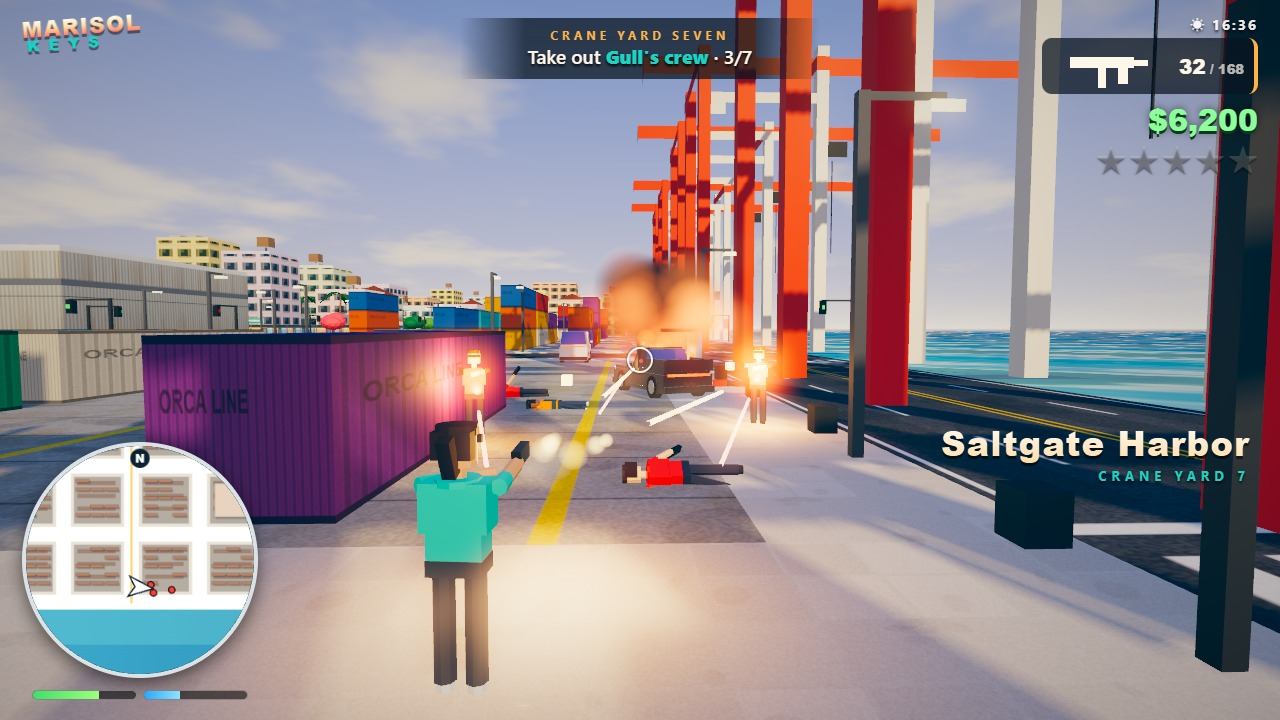
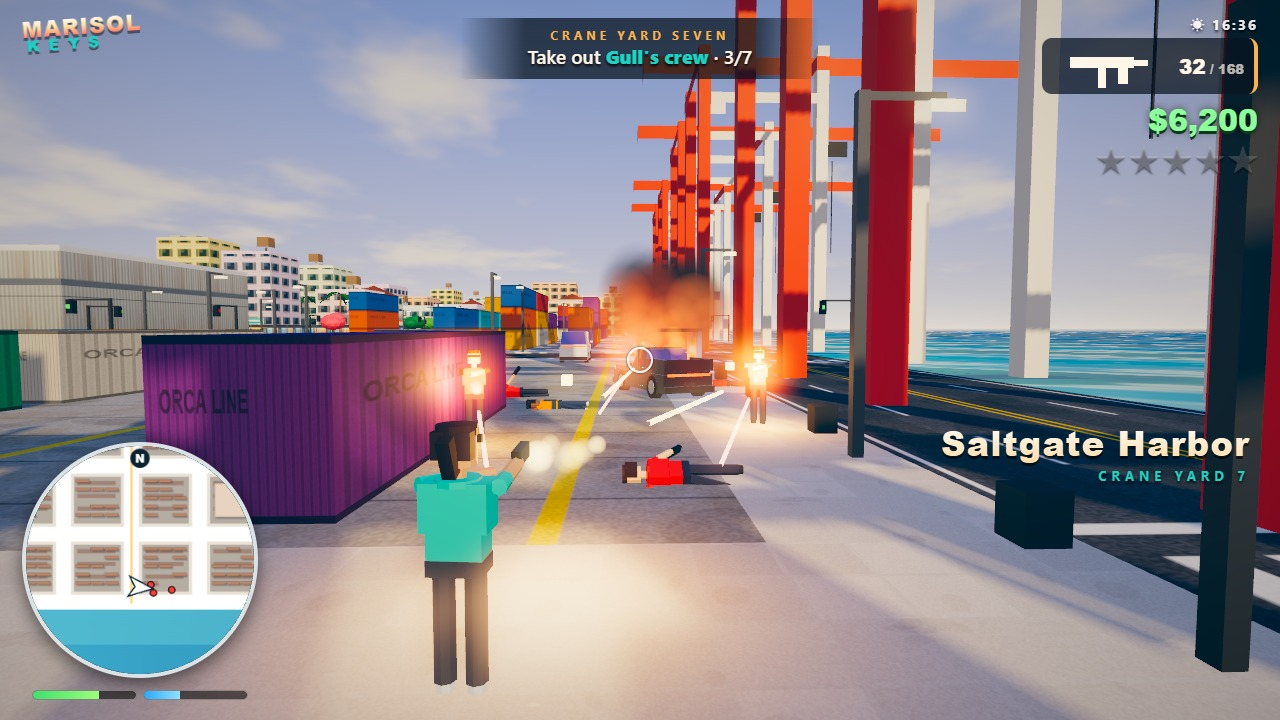
Faces: eyes, brows and mouths on every character

Changed region(s): [[0.4375, 0.3361, 0.5938, 0.55], [0.375, 0.5806, 0.4688, 0.6722]]

diff --git a/game/src/peds/humanModel.js b/game/src/peds/humanModel.js
@@ -47,6 +47,13 @@ export function buildHuman(o) {
   body.cylinder(0, 0.66, 0, 0.065, 0.12, tint(o.skin), { segments: 8, ao: 1 });       // neck
   body.cylinder(0, 0.76, 0, 0.14, 0.28, tint(o.skin), { segments: 12, ao: 1 });      // head
   body.orientedBox(0, 0.86, -0.135, 0.05, 0.07, 0.04, 0, tint(o.skin));               // nose
+  // face: eyes with whites, brows and a mouth on the front of the head
+  for (const s of [-1, 1]) {
+    body.orientedBox(s * 0.055, 0.905, -0.133, 0.05, 0.035, 0.01, 0, tint('#f4f1ea'));
+    body.orientedBox(s * 0.055, 0.905, -0.139, 0.025, 0.03, 0.01, 0, tint('#1d1712'));
+    body.orientedBox(s * 0.055, 0.94, -0.134, 0.065, 0.016, 0.012, 0, tint(o.hair));
+  }
+  body.orientedBox(0, 0.815, -0.134, 0.06, 0.014, 0.012, 0, tint('#7a3b33'));
   const hs = o.hairStyle || 'short';
   if (hs !== 'bald') {
     body.cylinder(0, 0.98, 0.01, 0.152, hs === 'curly' ? 0.13 : 0.08, tint(o.hair), { segments: 12, ao: 1 });   // hair cap
